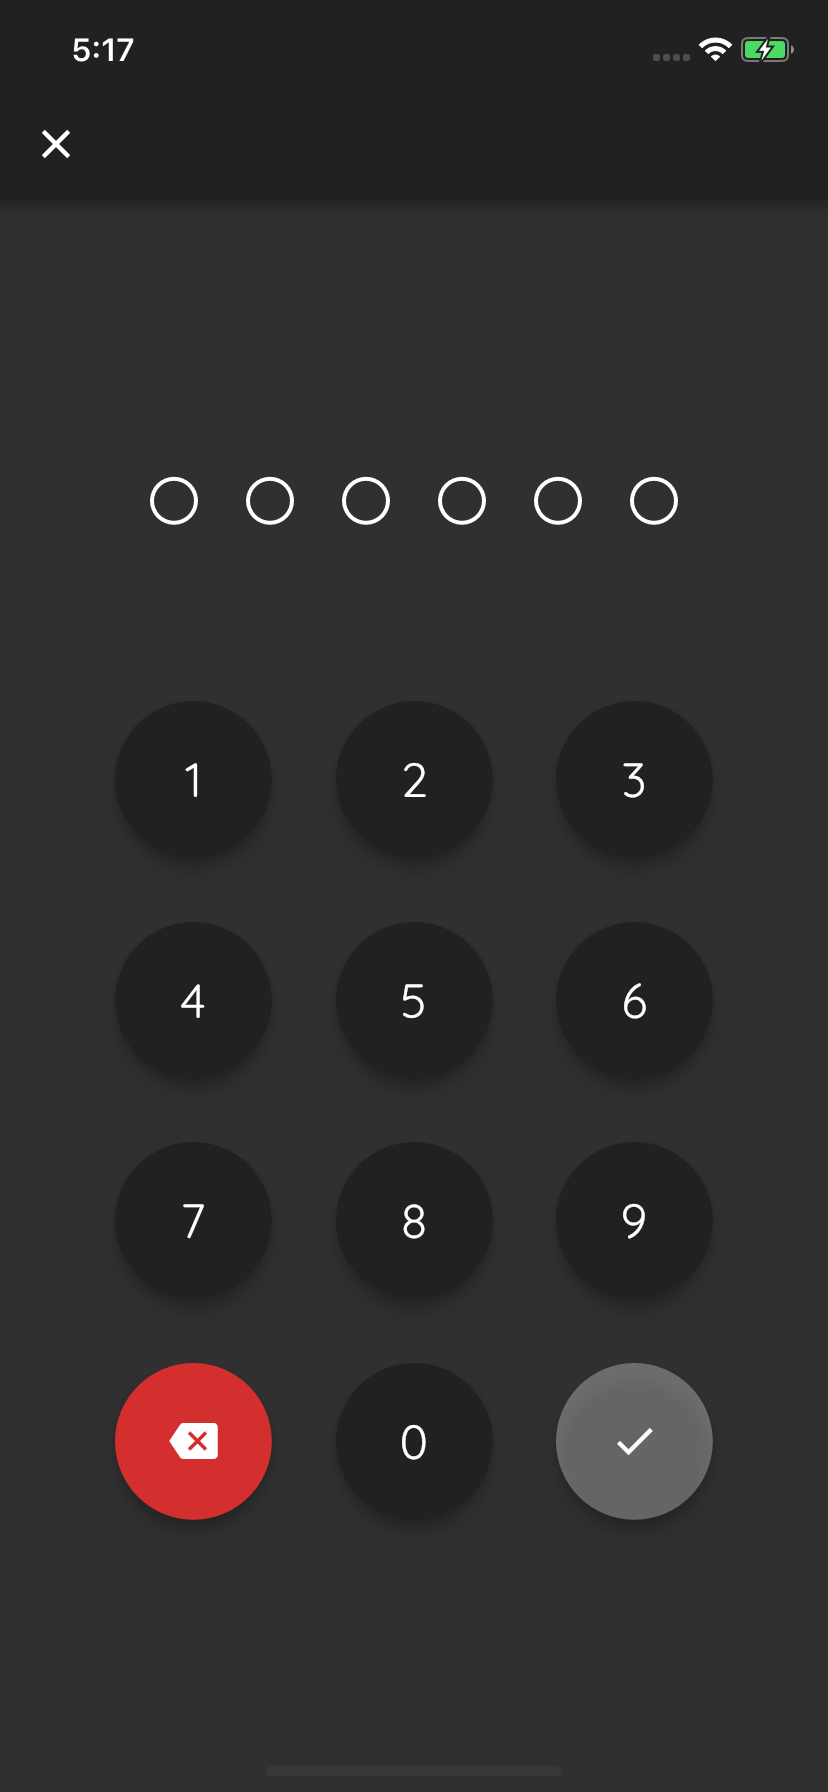
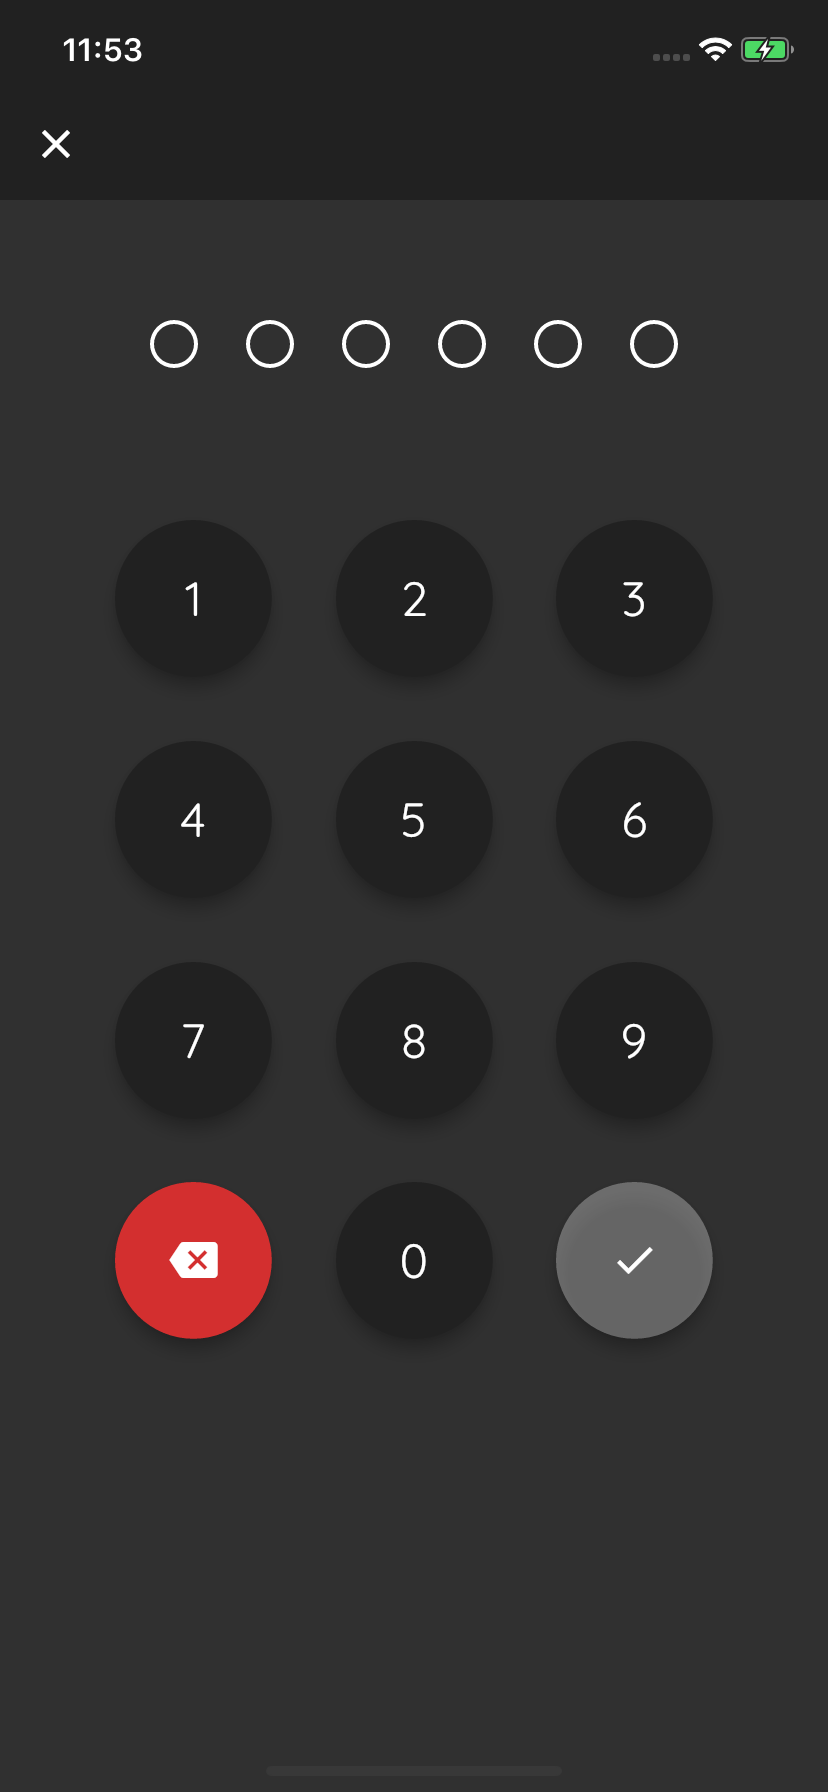
Change image url

diff --git a/lib/pages/seat_selection.dart b/lib/pages/seat_selection.dart
@@ -18,7 +18,7 @@ class SeatSelection extends StatefulWidget {
 }
 
 class _SeatSelectionState extends State<SeatSelection> {
-  double seatSize = 40;
+  double seatSize = 26;
 
   List<List<int>> seats = [
     [1, 1, 0, 1, 1, 1, 1, 1, 1, 1, 1, 1, 1, 0, 1, 1],
@@ -43,6 +43,8 @@ class _SeatSelectionState extends State<SeatSelection> {
 
   List<Map> seatSelected = [];
   List<Map> list = [];
+
+  ScrollController scrollController = ScrollController();
 
   @override
   void initState() {
@@ -97,53 +99,65 @@ class _SeatSelectionState extends State<SeatSelection> {
                   });
               },
               onScaleEnd: (s) {},
-              child: SingleChildScrollView(
-                scrollDirection: Axis.horizontal,
-                child: SizedBox(
-                  width: MediaQuery.of(context).size.width * scale,
-                  child: SingleChildScrollView(
-                    child: LayoutBuilder(
-                        builder: (context, constraints) => Column(
-                              children: <Widget>[
-                                Container(
-                                  height: 20,
-                                ),
-                                Container(
-                                  padding: EdgeInsets.only(bottom: 12),
-                                  width: constraints.maxWidth,
-                                  alignment: Alignment.center,
-                                  decoration: BoxDecoration(
-                                      border: Border(
-                                          bottom: BorderSide(
-                                              color: Colors.white, width: 2))
+              child: LayoutBuilder(
+                builder: (context, constraint) => SingleChildScrollView(
+                      scrollDirection: Axis.horizontal,
+                      controller: scrollController,
+                      child: Container(
+                        padding: EdgeInsets.only(bottom: 120),
+                        height: constraint.maxHeight - 0,
+
+                        child: SizedBox(
+                          width: (MediaQuery.of(context).size.width /
+                                          seats[0].length <
+                                      seatSize
+                                  ? seatSize * seats[0].length
+                                  : MediaQuery.of(context).size.width) *
+                              scale,
+                          child: SingleChildScrollView(
+                            child: LayoutBuilder(
+                                builder: (context, constraints) => Column(
+                                      children: <Widget>[
+                                        Container(
+                                          height: 20,
+                                        ),
+                                        Container(
+                                          padding: EdgeInsets.only(bottom: 12),
+                                          width: constraints.maxWidth,
+                                          alignment: Alignment.center,
+                                          decoration: BoxDecoration(
+                                              border: Border(
+                                                  bottom: BorderSide(
+                                                      color: Colors.white,
+                                                      width: 2))
 //                              color: Colors.white54,
-                                      ),
-                                  child: Text(
-                                    "Screen",
-                                    style: Theme.of(context)
-                                        .textTheme
-                                        .subhead
-                                        .copyWith(
-                                            fontSize: Theme.of(context)
-                                                    .textTheme
-                                                    .subhead
-                                                    .fontSize *
-                                                scale,
-                                            color: Colors.white,
-                                            fontWeight: FontWeight.w700),
-                                  ),
-                                ),
-                                Container(
-                                  height: 40,
-                                ),
-                                buildSeatLayout(context),
-                                Container(
-                                  height: 120,
-                                )
-                              ],
-                            )),
-                  ),
-                ),
+                                              ),
+                                          child: Text(
+                                            "Screen",
+                                            style: Theme.of(context)
+                                                .textTheme
+                                                .subhead
+                                                .copyWith(
+                                                    fontSize: Theme.of(context)
+                                                            .textTheme
+                                                            .subhead
+                                                            .fontSize *
+                                                        scale,
+                                                    color: Colors.white,
+                                                    fontWeight:
+                                                        FontWeight.w700),
+                                          ),
+                                        ),
+                                        Container(
+                                          height: 40,
+                                        ),
+                                        buildSeatLayout(context),
+                                      ],
+                                    )),
+                          ),
+                        ),
+                      ),
+                    ),
               ),
             ),
             Positioned(bottom: 0, child: buildInfoLayout(context))
@@ -152,11 +166,12 @@ class _SeatSelectionState extends State<SeatSelection> {
   }
 
   buildSeatLayout(BuildContext context) {
-    return ConstrainedBox(
+    return Container(
       constraints: BoxConstraints(
           maxHeight: MediaQuery.of(context).size.height -
               Scaffold.of(context).widget.appBar.preferredSize.height -
-              MediaQuery.of(context).padding.top),
+              MediaQuery.of(context).padding.top -
+              258),
       child: GridView.count(
         physics: NeverScrollableScrollPhysics(),
         crossAxisCount: seats[0].length,
@@ -191,7 +206,7 @@ class _SeatSelectionState extends State<SeatSelection> {
                       ? Text(
                           label,
                           style: Theme.of(context).textTheme.caption.copyWith(
-                              fontSize: 10 * scale,
+                              fontSize: 9 * scale,
                               color: isSelected ? Colors.black : Colors.white),
                         )
                       : null,

diff --git a/lib/dummy/movies.dart b/lib/dummy/movies.dart
@@ -46,7 +46,7 @@ const movies=[
         "URL1": "",
         "URL2": "",
         "TitleAlt": "",
-        "URLforGraphic": "https://cdn.mbocinemas.com/VISINTERNETTICKETING/Images/Movies/alita_battle_angel_vsword.jpg",
+        "URLforGraphic": "https://upload.wikimedia.org/wikipedia/en/thumb/e/ee/Alita_Battle_Angel_%282019_poster%29.png/220px-Alita_Battle_Angel_%282019_poster%29.png",
         "URLforFilmName": "",
         "URLforTrailer": "https://www.youtube.com/watch?v=cislZ9S0ocA",
         "UpcomingFeatureFlag": "Y",
@@ -105,7 +105,7 @@ const movies=[
         "URL1": "",
         "URL2": "",
         "TitleAlt": "",
-        "URLforGraphic": "https://cdn.mbocinemas.com/VISINTERNETTICKETING/Images/Movies/captain_marvel_helmet.jpg",
+        "URLforGraphic": "https://m.media-amazon.com/images/M/MV5BMTE0YWFmOTMtYTU2ZS00ZTIxLWE3OTEtYTNiYzBkZjViZThiXkEyXkFqcGdeQXVyODMzMzQ4OTI@._V1_.jpg",
         "URLforFilmName": "",
         "URLforTrailer": "https://www.youtube.com/watch?v=0LHxvxdRnYc",
         "UpcomingFeatureFlag": "Y",

diff --git a/lib/pages/pin.dart b/lib/pages/pin.dart
@@ -4,20 +4,20 @@ import 'package:payment_flow_challenge/action/event.dart';
 import 'package:payment_flow_challenge/entities/ticket.dart';
 import 'package:sweetalert/sweetalert.dart';
 
-class PinView extends StatefulWidget {
-  PinView({
+class PinPage extends StatefulWidget {
+  PinPage({
     this.ticket,
     Key key,
   }) : super(key: key);
   final Ticket ticket;
 
   @override
-  _PinViewState createState() {
-    return _PinViewState();
+  _PinPageState createState() {
+    return _PinPageState();
   }
 }
 
-class _PinViewState extends State<PinView> {
+class _PinPageState extends State<PinPage> {
   String text = "";
 
   int maxPin = 6;
@@ -46,7 +46,7 @@ class _PinViewState extends State<PinView> {
   @override
   Widget build(BuildContext context) {
     return Scaffold(
-      appBar: AppBar(),
+      appBar: AppBar(elevation: 0),
       body: LayoutBuilder(builder: (context, constraint) {
         double height = (constraint.maxWidth * 0.8) * 4 / 3;
         return Stack(

diff --git a/lib/pages/payment.dart b/lib/pages/payment.dart
@@ -4,7 +4,7 @@ import 'package:payment_flow_challenge/entities/booking_detail.dart';
 import 'package:payment_flow_challenge/entities/movie.dart';
 import 'package:payment_flow_challenge/entities/ticket.dart';
 import 'package:payment_flow_challenge/view/countdown.dart';
-import 'package:payment_flow_challenge/view/pin.dart';
+import 'package:payment_flow_challenge/pages/pin.dart';
 
 class PaymentPage extends StatefulWidget {
   PaymentPage({
@@ -244,7 +244,7 @@ class _PaymentPageState extends State<PaymentPage> {
                     onPressed: () {
                       Navigator.of(context).push(MaterialPageRoute(
                           fullscreenDialog: true,
-                          builder: (context) => PinView(
+                          builder: (context) => PinPage(
                                 ticket:
                                     Ticket(widget.movie, widget.bookingDetail),
                               )));

diff --git a/lib/view/history.dart b/lib/view/history.dart
@@ -29,6 +29,7 @@ class HistoryView extends StatelessWidget {
   @override
   Widget build(BuildContext context) {
     double itemHeight=180;
+    List<Ticket> tickets= this.tickets.reversed.toList();
     return Container(
       color: Theme.of(context).primaryColor,
       child: LayoutBuilder(builder: (context, constraint) {
